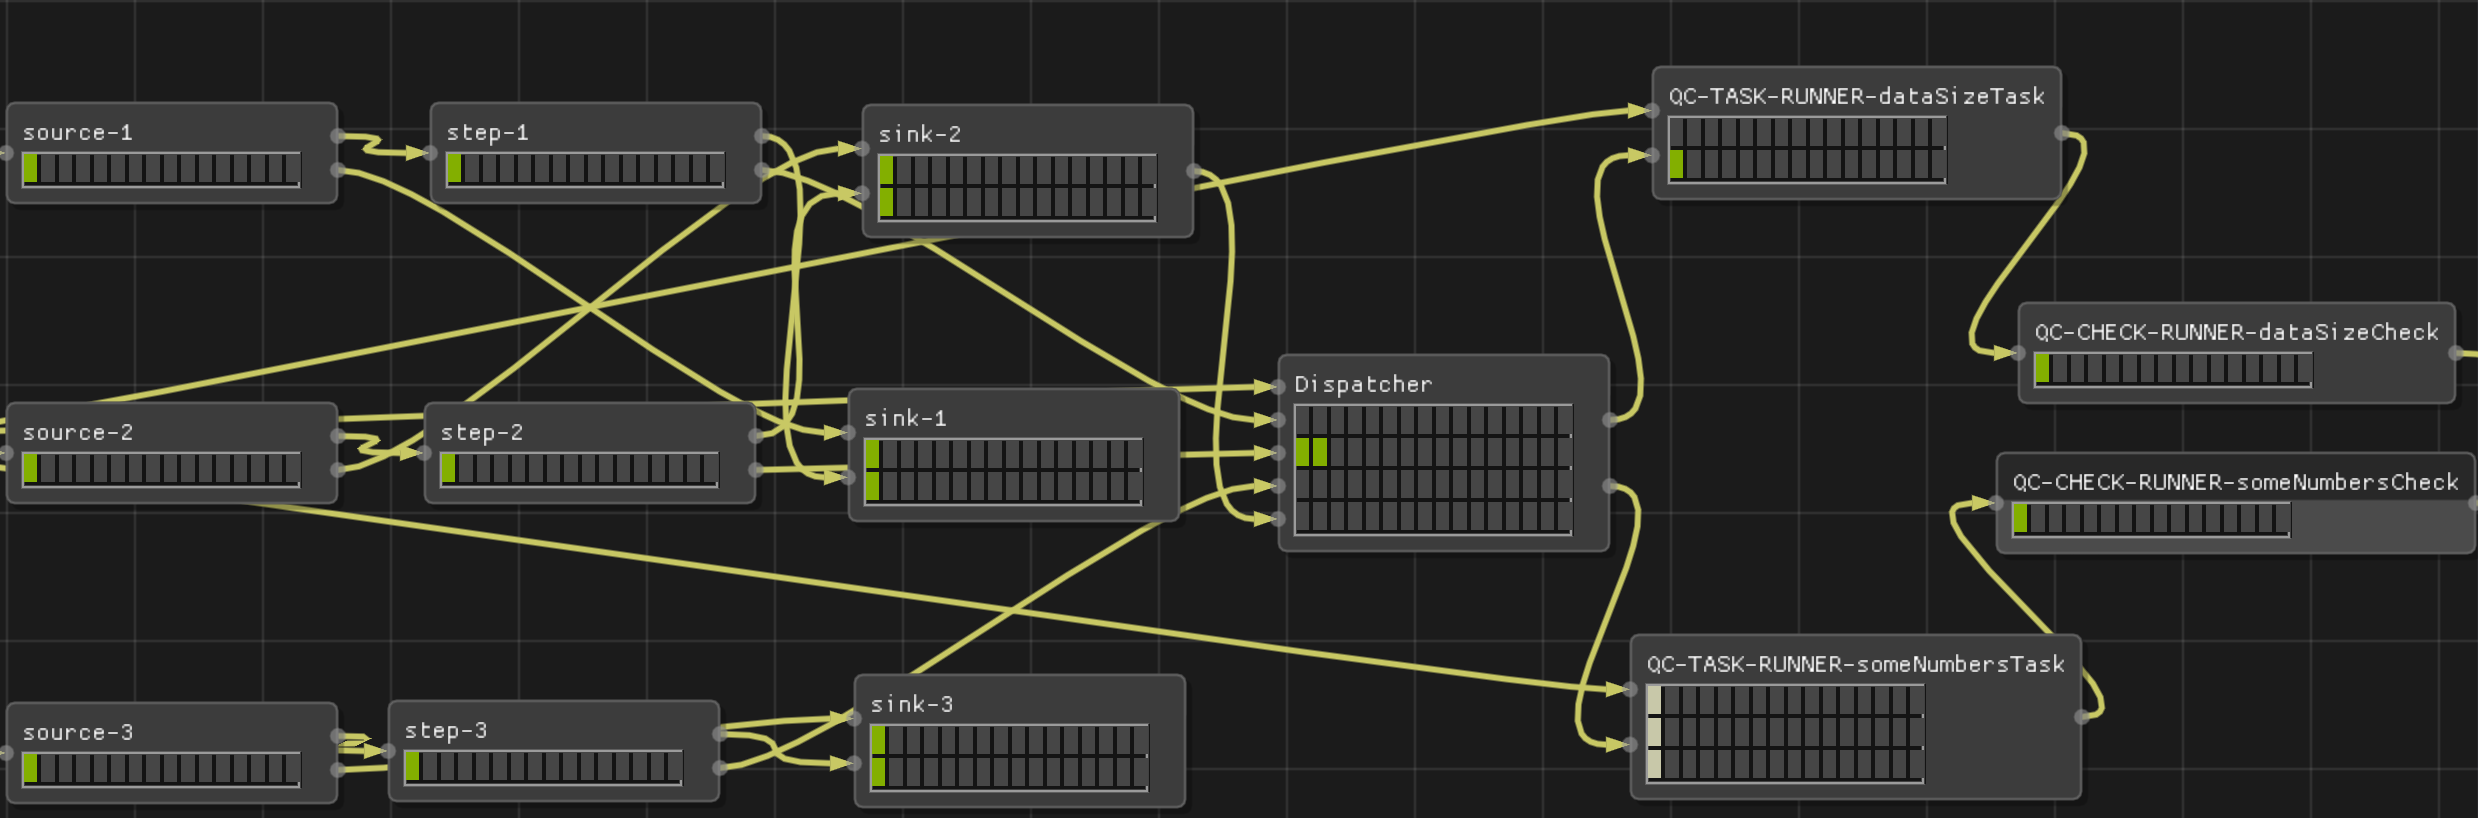
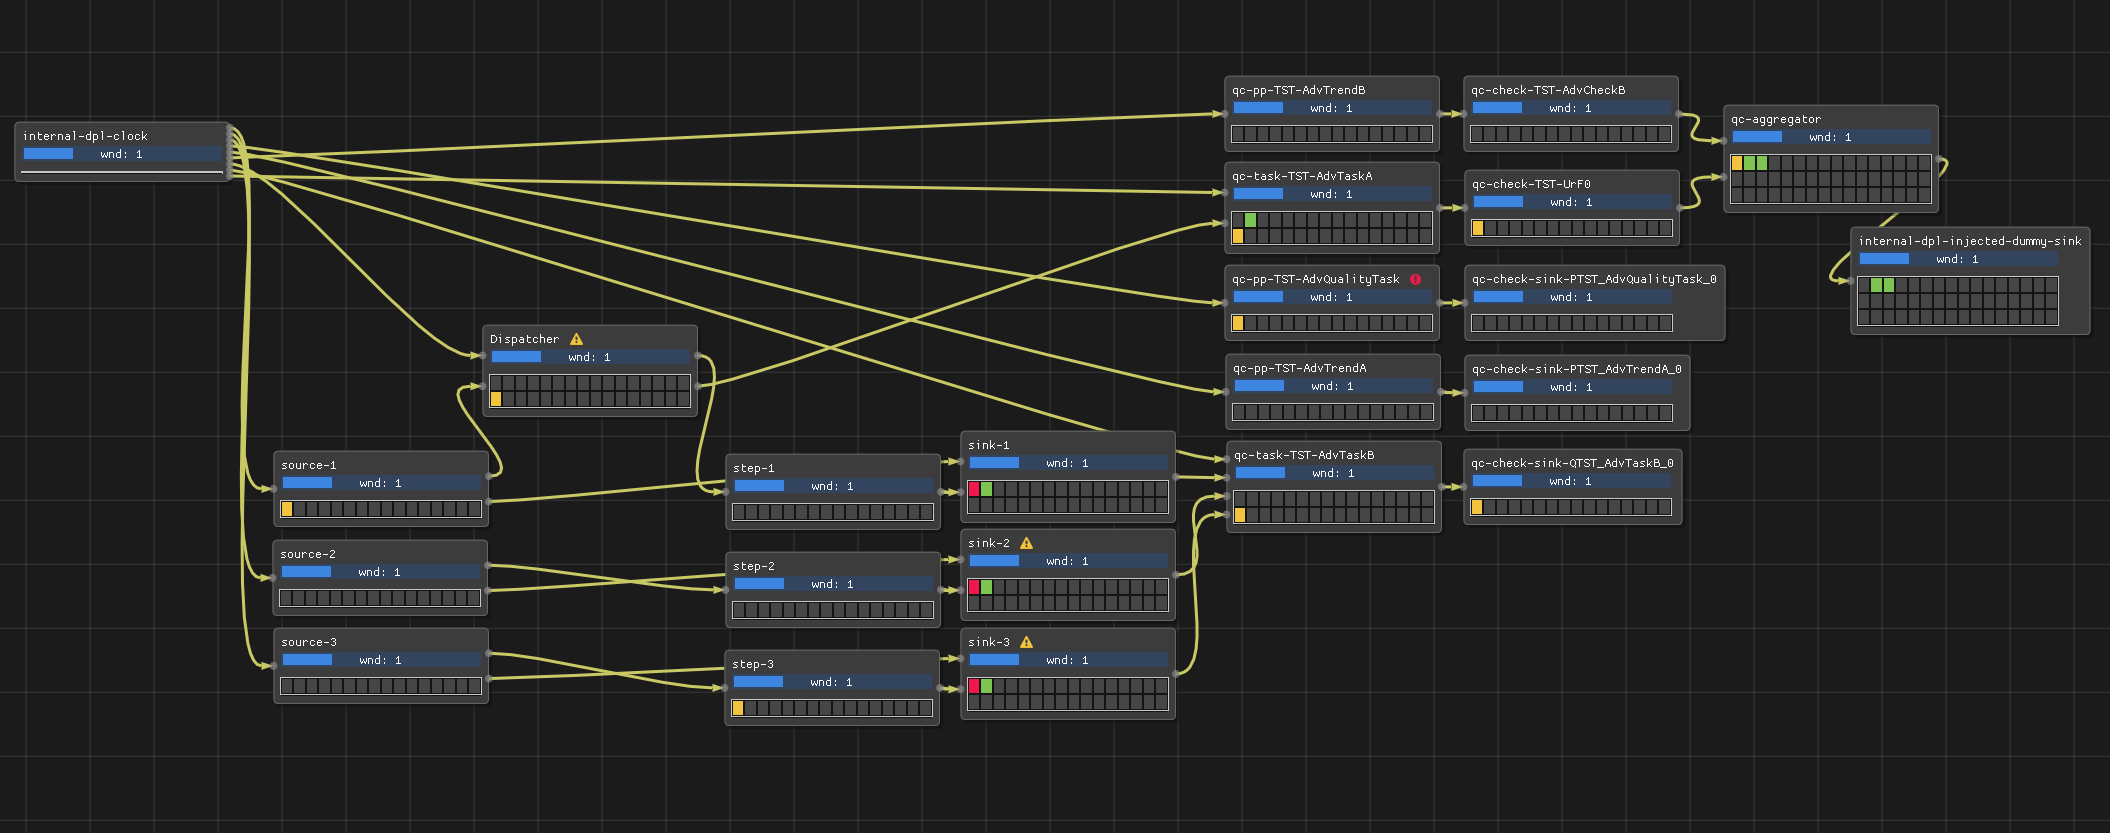
Modernize the advanced QC workflow example (#2585)
Now it includes also Aggregators, PostProcessings and Checks on PostProcessing results.
It represents a typical recent P2 setup of a detector.
It can be used by developers to manually try out changes in the framework on a more complex example.

diff --git a/doc/ModulesDevelopment.md b/doc/ModulesDevelopment.md
@@ -86,7 +86,7 @@ Data Sampling is used by Quality Control to feed the tasks with data. Below we p
 }
 ```
 
-An example of using the data sampling in a DPL workflow is visible in [runAdvanced.cxx](https://github.com/AliceO2Group/QualityControl/blob/master/Framework/src/runAdvanced.cxx).
+QC framework takes care of creating the necessary Data Sampling infrastructure when it finds it in the configuration file.
 
 #### Custom Data Sampling Condition
 
@@ -521,16 +521,21 @@ The way we compute the run number is done in this order:
 
 ## A more advanced example
 
-A more complete example is available. The config file is called [advanced.json](../Framework/advanced.json). The workflow is made of 3 sources, intermediate processing steps, 3 sinks and a Dispatcher connecting two QC tasks to a number of these steps and 2 checks. The topology doesn't mean to represent any particular physics processing, it is just an example with multiple data processors.
+A more complete example is available. The config file is called [advanced.json](../Framework/advanced.json).
+The workflow is made of 3 sources, intermediate processing steps, 3 sinks and a Dispatcher connecting two QC tasks to selected data outputs.
+It also includes a few Checks, Aggregators and PostProcessing tasks.
+The topology is not intended to represent any particular physics processing, it is just an example with multiple data processors.
 
 ![alt text](images/advanced.png)
 
 To run it do either
 ```
+# runs a fake processing workflow and associated QC
 o2-qc-run-advanced
 ```
 or 
 ```
+# o2-qc-run-advanced creates a fake processing workflow, while the QC is spawned by o2-qc
 o2-qc-run-advanced --no-qc | o2-qc --config json://${QUALITYCONTROL_ROOT}/etc/advanced.json
 ```
 
